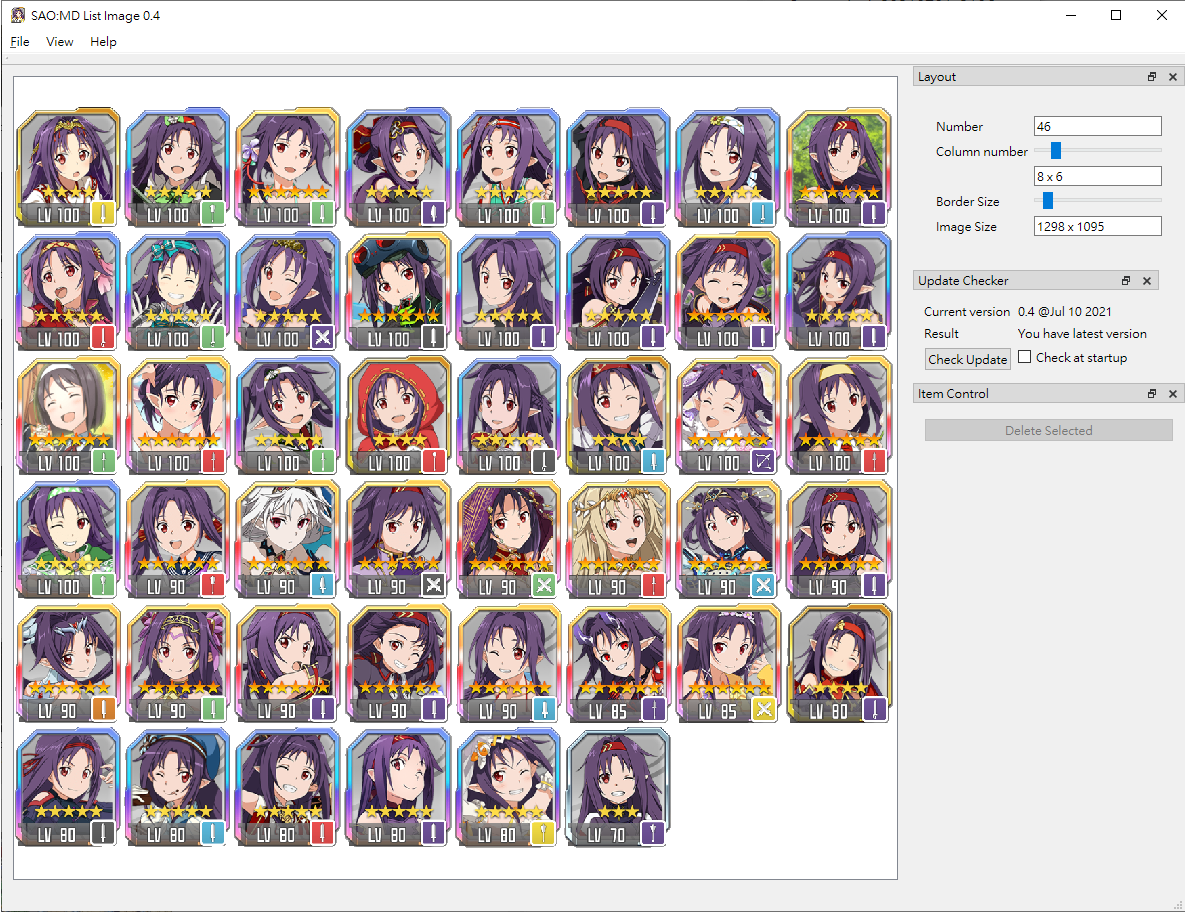
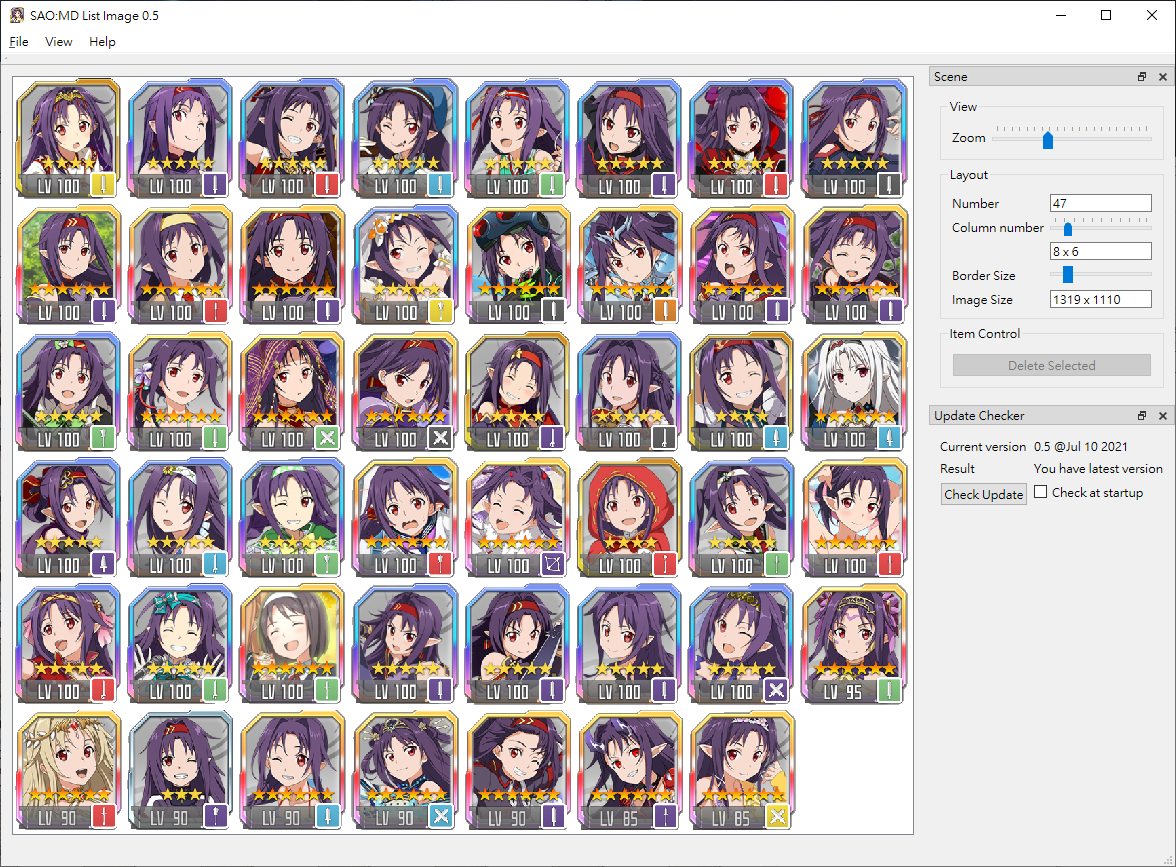
Add Zoom In/Out, update translation

diff --git a/saomd-listimage_zh_TW.ts b/saomd-listimage_zh_TW.ts
@@ -101,12 +101,12 @@
 <context>
     <name>SAOMDListImage</name>
     <message>
-        <location filename="SAOMDListImage.cpp" line="140"/>
+        <location filename="SAOMDListImage.cpp" line="165"/>
         <source>Select one or more files</source>
         <translation>選取一個或多個檔案</translation>
     </message>
     <message>
-        <location filename="SAOMDListImage.cpp" line="162"/>
+        <location filename="SAOMDListImage.cpp" line="187"/>
         <source>Input the file to save</source>
         <translation>輸入檔案以儲存</translation>
     </message>
@@ -131,89 +131,171 @@
     </message>
     <message>
         <location filename="SAOMDListImage.ui" line="60"/>
+        <location filename="SAOMDListImage.ui" line="119"/>
         <source>View</source>
         <translation>檢視</translation>
     </message>
     <message>
-        <location filename="SAOMDListImage.ui" line="92"/>
-        <location filename="SAOMDListImage.ui" line="242"/>
+        <location filename="SAOMDListImage.ui" line="64"/>
+        <location filename="SAOMDListImage.ui" line="125"/>
+        <source>Zoom</source>
+        <translation>縮放</translation>
+    </message>
+    <message>
+        <location filename="SAOMDListImage.ui" line="109"/>
+        <location filename="SAOMDListImage.ui" line="303"/>
         <source>Scene</source>
         <translation>場景</translation>
     </message>
     <message>
-        <location filename="SAOMDListImage.ui" line="102"/>
+        <location filename="SAOMDListImage.ui" line="154"/>
         <source>Layout</source>
         <translation>布局</translation>
     </message>
     <message>
-        <location filename="SAOMDListImage.ui" line="108"/>
+        <location filename="SAOMDListImage.ui" line="160"/>
         <source>Number</source>
         <translation>項目數量</translation>
     </message>
     <message>
-        <location filename="SAOMDListImage.ui" line="155"/>
+        <location filename="SAOMDListImage.ui" line="213"/>
         <source>Border Size</source>
         <translation>邊框大小</translation>
     </message>
     <message>
-        <location filename="SAOMDListImage.ui" line="169"/>
+        <location filename="SAOMDListImage.ui" line="227"/>
         <source>Image Size</source>
         <translation>影像大小</translation>
     </message>
     <message>
-        <location filename="SAOMDListImage.ui" line="215"/>
-        <location filename="SAOMDListImage.ui" line="250"/>
+        <location filename="SAOMDListImage.ui" line="264"/>
+        <source>Ctrl+S</source>
+        <translation></translation>
+    </message>
+    <message>
+        <location filename="SAOMDListImage.ui" line="276"/>
+        <location filename="SAOMDListImage.ui" line="311"/>
         <source>Update Checker</source>
         <translation>更新檢查</translation>
     </message>
     <message>
-        <location filename="SAOMDListImage.ui" line="182"/>
-        <location filename="SAOMDListImage.ui" line="268"/>
+        <location filename="SAOMDListImage.ui" line="347"/>
+        <source>Fit Image</source>
+        <translation>適合影像</translation>
+    </message>
+    <message>
+        <location filename="SAOMDListImage.ui" line="350"/>
+        <source>Ctrl+1</source>
+        <translation></translation>
+    </message>
+    <message>
+        <location filename="SAOMDListImage.ui" line="358"/>
+        <source>Fit Width</source>
+        <translation>適合寬度</translation>
+    </message>
+    <message>
+        <location filename="SAOMDListImage.ui" line="361"/>
+        <source>Ctrl+2</source>
+        <translation></translation>
+    </message>
+    <message>
+        <location filename="SAOMDListImage.ui" line="369"/>
+        <source>Fit Height</source>
+        <translation>適合高度</translation>
+    </message>
+    <message>
+        <location filename="SAOMDListImage.ui" line="372"/>
+        <source>Ctrl+3</source>
+        <translation></translation>
+    </message>
+    <message>
+        <location filename="SAOMDListImage.ui" line="380"/>
+        <source>100%</source>
+        <translation></translation>
+    </message>
+    <message>
+        <location filename="SAOMDListImage.ui" line="383"/>
+        <source>Ctrl+0</source>
+        <translation></translation>
+    </message>
+    <message>
+        <location filename="SAOMDListImage.ui" line="391"/>
+        <source>50%</source>
+        <translation></translation>
+    </message>
+    <message>
+        <location filename="SAOMDListImage.ui" line="399"/>
+        <source>Customize</source>
+        <translation>自訂縮放</translation>
+    </message>
+    <message>
+        <location filename="SAOMDListImage.ui" line="404"/>
+        <source>Zoom In</source>
+        <translation>放大</translation>
+    </message>
+    <message>
+        <location filename="SAOMDListImage.ui" line="407"/>
+        <source>Ctrl++</source>
+        <translation></translation>
+    </message>
+    <message>
+        <location filename="SAOMDListImage.ui" line="412"/>
+        <source>Zoom Out</source>
+        <translation>縮小</translation>
+    </message>
+    <message>
+        <location filename="SAOMDListImage.ui" line="415"/>
+        <source>Ctrl+-</source>
+        <translation></translation>
+    </message>
+    <message>
+        <location filename="SAOMDListImage.ui" line="240"/>
+        <location filename="SAOMDListImage.ui" line="329"/>
         <source>Item Control</source>
         <translation>項目控制</translation>
     </message>
     <message>
-        <location filename="SAOMDListImage.ui" line="203"/>
+        <location filename="SAOMDListImage.ui" line="261"/>
         <source>Delete Selected</source>
         <translation>刪除已選取的項目</translation>
     </message>
     <message>
-        <location filename="SAOMDListImage.ui" line="229"/>
+        <location filename="SAOMDListImage.ui" line="290"/>
         <source>&amp;Save</source>
         <translation>儲存（&amp;S）</translation>
     </message>
     <message>
-        <location filename="SAOMDListImage.ui" line="234"/>
+        <location filename="SAOMDListImage.ui" line="295"/>
         <source>About</source>
         <translation>關於</translation>
     </message>
     <message>
-        <location filename="SAOMDListImage.ui" line="255"/>
+        <location filename="SAOMDListImage.ui" line="316"/>
         <source>Clear</source>
         <translation>清除</translation>
     </message>
     <message>
-        <location filename="SAOMDListImage.ui" line="260"/>
+        <location filename="SAOMDListImage.ui" line="321"/>
         <source>Exit</source>
         <translation>離開</translation>
     </message>
     <message>
-        <location filename="SAOMDListImage.ui" line="273"/>
+        <location filename="SAOMDListImage.ui" line="334"/>
         <source>Demo Video</source>
         <translation>展示影片</translation>
     </message>
     <message>
-        <location filename="SAOMDListImage.ui" line="278"/>
+        <location filename="SAOMDListImage.ui" line="339"/>
         <source>How to use</source>
         <translation>如何使用</translation>
     </message>
     <message>
-        <location filename="SAOMDListImage.ui" line="162"/>
+        <location filename="SAOMDListImage.ui" line="220"/>
         <source>Column number</source>
         <translation>每列的數量</translation>
     </message>
     <message>
-        <location filename="SAOMDListImage.ui" line="224"/>
+        <location filename="SAOMDListImage.ui" line="285"/>
         <source>&amp;Load</source>
         <oldsource>讀取（&amp;L）</oldsource>
         <translation>讀取（&amp;L）</translation>

diff --git a/CScaleControlView.h b/CScaleControlView.h
@@ -62,12 +62,14 @@ public slots:
 
 	void slotZoomIn()
 	{
-
+		setScaleMode(EScaleMode::Custom);
+		setScale(m_fScale + 0.1f);
 	}
 
 	void slotZoomOut()
 	{
-
+		setScaleMode(EScaleMode::Custom);
+		setScale(m_fScale - 0.1f);
 	}
 
 	void setScaleMode(CScaleControlView::EScaleMode eMode);

diff --git a/CScaleControlView.cpp b/CScaleControlView.cpp
@@ -67,7 +67,7 @@ void CScaleControlView::setScaleMode(EScaleMode eMode)
 
 void CScaleControlView::setScale(float fScale)
 {
-	if (fScale != m_fScale)
+	if (fScale != m_fScale && fScale > 0)
 	{
 		m_fScale = fScale;
 		if (m_eMode == EScaleMode::Custom)
